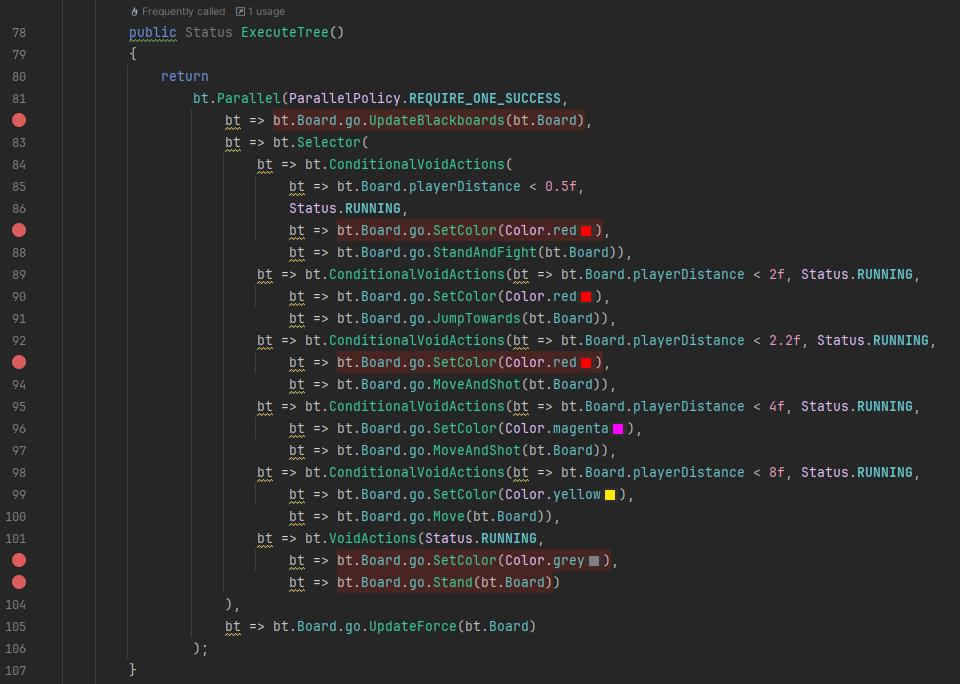
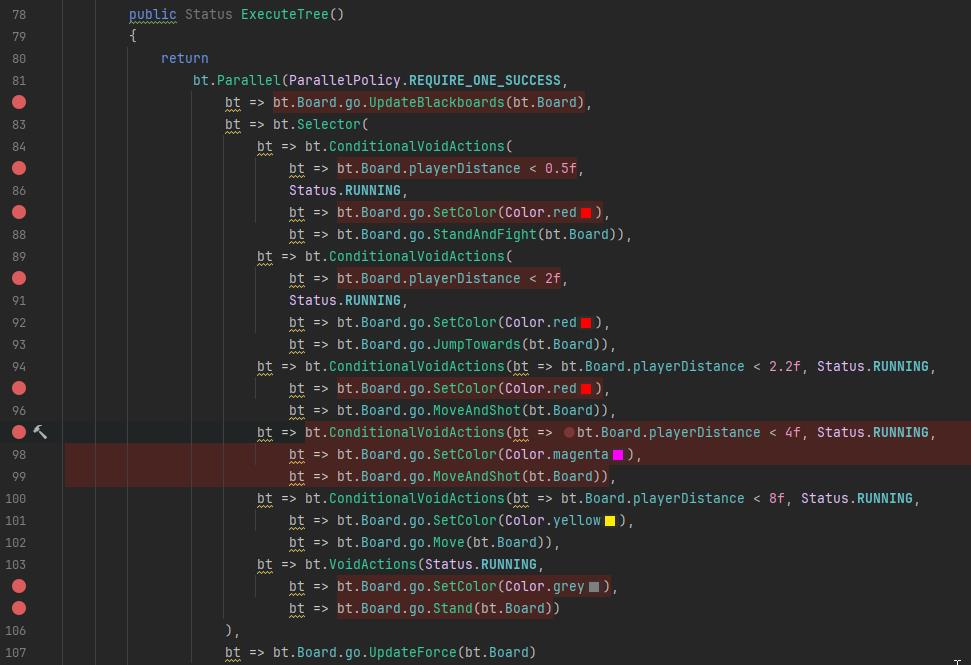
Example picture is updated

diff --git a/FunctionalBehave.cs b/FunctionalBehave.cs
@@ -86,7 +86,9 @@ namespace FunctionalBtTest
                             Status.RUNNING,
                             bt => bt.Board.go.SetColor(Color.red),
                             bt => bt.Board.go.StandAndFight(bt.Board)),
-                        bt => bt.ConditionalVoidActions(bt => bt.Board.playerDistance < 2f, Status.RUNNING, 
+                        bt => bt.ConditionalVoidActions(
+                            bt => bt.Board.playerDistance < 2f, 
+                            Status.RUNNING, 
                             bt => bt.Board.go.SetColor(Color.red),
                             bt => bt.Board.go.JumpTowards(bt.Board)),
                         bt => bt.ConditionalVoidActions(bt => bt.Board.playerDistance < 2.2f, Status.RUNNING, 
